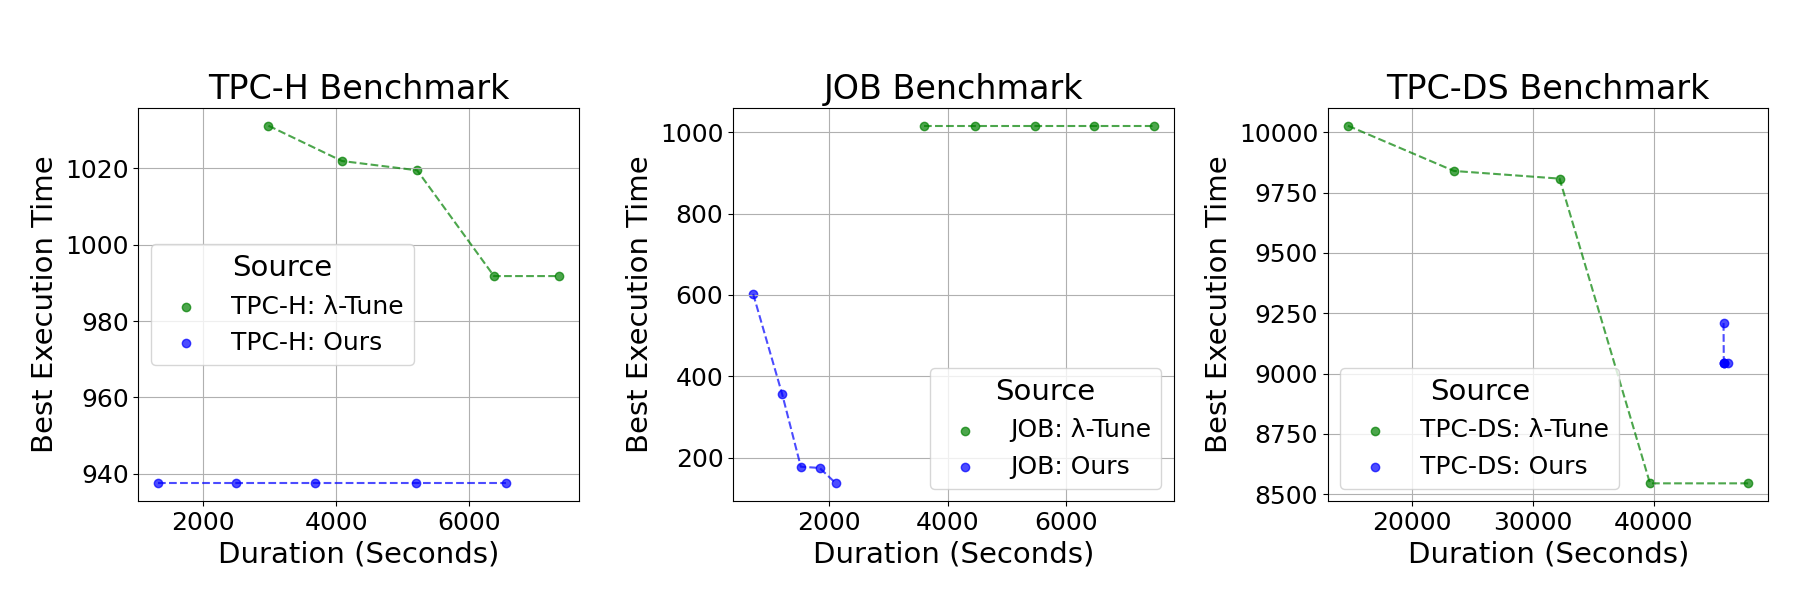
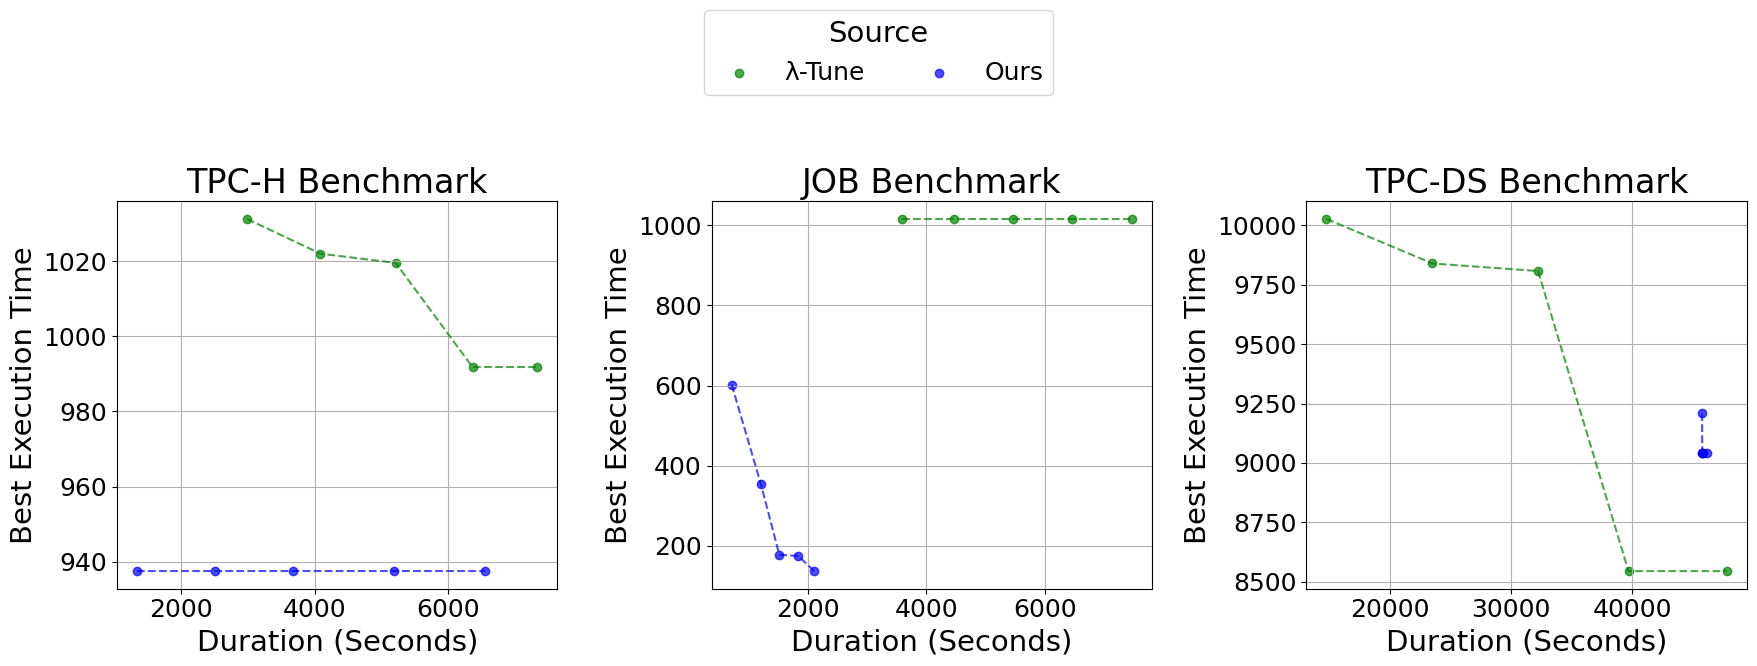
Refactor plotting script to improve legend handling and enhance display names for benchmarks

diff --git a/s5_1.py b/s5_1.py
@@ -6,16 +6,18 @@ import matplotlib.pyplot as plt
 import numpy as np
 
 # Increase plot font sizes globally by 1.5x
-plt.rcParams.update({
-    'font.size': 21,          # General font size (1.5x of 14)
-    'axes.titlesize': 24,     # Axes title font size (1.5x of 16)
-    'axes.labelsize': 21,     # Axes label font size (1.5x of 14)
-    'xtick.labelsize': 18,    # x tick label font size (1.5x of 12)
-    'ytick.labelsize': 18,    # y tick label font size (1.5x of 12)
-    'legend.fontsize': 18     # Legend font size (1.5x of 12)
-})
+plt.rcParams.update(
+    {
+        "font.size": 21,  # General font size (1.5x of 14)
+        "axes.titlesize": 24,  # Axes title font size (1.5x of 16)
+        "axes.labelsize": 21,  # Axes label font size (1.5x of 14)
+        "xtick.labelsize": 18,  # x tick label font size (1.5x of 12)
+        "ytick.labelsize": 18,  # y tick label font size (1.5x of 12)
+        "legend.fontsize": 18,  # Legend font size (1.5x of 12)
+    }
+)
 
-# Set the experiment and benchmarks to plot
+# Set the experiment and benchmarks
 experiment = "s51"
 benchmarks = ["tpch", "job", "tpcds"]
 
@@ -32,7 +34,7 @@ for benchmark in benchmarks:
             with open(fp, "r") as f:
                 reports = json.load(f)
                 for report in reports:
-                    report["file"] = fp      # Tag the source file
+                    report["file"] = fp  # Tag the source file
                     report["benchmark"] = benchmark  # Tag the benchmark
                 data.extend(reports)
         else:
@@ -59,11 +61,12 @@ if missing_columns:
 df["best_execution_time"] = pd.to_numeric(df["best_execution_time"], errors="coerce")
 df["duration_seconds"] = pd.to_numeric(df["duration_seconds"], errors="coerce")
 
-# Define display name mapping and colors for each source file, including benchmark info.
+# Define display name mapping and colors for each source file (without benchmark prefix for legend).
 display_names = {}
+print_names = {}  # New dictionary for printing with benchmark names
 colors = {}
 for benchmark in benchmarks:
-    # Determine friendly benchmark title.
+    # Convert benchmark name to proper title format
     if benchmark.lower() == "tpch":
         bench_title = "TPC-H"
     elif benchmark.lower() == "job":
@@ -75,15 +78,24 @@ for benchmark in benchmarks:
 
     ours_fp = f"test/{experiment}/{benchmark}/ours/reports.json"
     lambdatune_fp = f"test/{experiment}/{benchmark}/lambdatune/reports.json"
-    display_names[ours_fp] = f"{bench_title}: Ours"
-    display_names[lambdatune_fp] = f"{bench_title}: λ-Tune"
+
+    # For legend - only method name
+    display_names[ours_fp] = "Ours"
+    display_names[lambdatune_fp] = "λ-Tune"
+
+    # For printing - method name with benchmark
+    print_names[ours_fp] = f"{bench_title}: Ours"
+    print_names[lambdatune_fp] = f"{bench_title}: λ-Tune"
+
     colors[ours_fp] = "blue"
     colors[lambdatune_fp] = "green"
 
 # --- Plotting ---
 # Create one subplot per benchmark and combine them in one overall figure.
 num_benchmarks = len(benchmarks)
-fig, axes = plt.subplots(nrows=1, ncols=num_benchmarks, figsize=(6*num_benchmarks, 6), sharey=False)
+fig, axes = plt.subplots(
+    nrows=1, ncols=num_benchmarks, figsize=(6 * num_benchmarks, 6), sharey=False
+)
 
 # Ensure axes is always an iterable.
 if num_benchmarks == 1:
@@ -115,13 +127,31 @@ for ax, benchmark in zip(axes, benchmarks):
     ax.set_xlabel("Duration (Seconds)")
     ax.set_ylabel("Best Execution Time")
     ax.grid(True)
-    ax.legend(title="Source")
+
+# Create a single combined legend for the entire figure, positioned upward.
+handles = []
+labels = []
+for ax in axes:
+    h, l = ax.get_legend_handles_labels()
+    for handle, label in zip(h, l):
+        if label not in labels:
+            handles.append(handle)
+            labels.append(label)
+
+fig.legend(
+    handles,
+    labels,
+    loc="upper center",
+    bbox_to_anchor=(0.5, 1.15),
+    ncol=len(labels),
+    title="Source",
+)
 
 print("Scatter Plot: Duration vs Best Execution Time by Source for Each Benchmark")
-plt.tight_layout(rect=[0, 0, 1, 0.93])
+plt.tight_layout(rect=[0, 0, 1, 0.92])
 plot_filename = "s5_1_combined"
-plt.savefig(f"{plot_filename}.png")
-plt.savefig(f"{plot_filename}.pdf")
+plt.savefig(f"{plot_filename}.png", bbox_inches="tight")
+plt.savefig(f"{plot_filename}.pdf", bbox_inches="tight")
 print(f"Scatter plot saved as {plot_filename}")
 plt.show()
 
@@ -137,7 +167,7 @@ grouped_sums = df.groupby("file")[time_columns].sum()
 print("\nFormatted Time Sums per Source with Percentages:\n")
 for source, row in grouped_sums.iterrows():
     total = row.sum()
-    disp_name = display_names.get(source, source)
+    disp_name = print_names.get(source, source)  # Use print_names for printing
     print(disp_name)
     for metric in time_columns:
         value = row[metric]
@@ -150,7 +180,7 @@ print("\nBest Execution Time per Source (aggregated):\n")
 # Aggregate only the minimum for best_execution_time.
 grouped_best = df.groupby("file")["best_execution_time"].agg(["min"])
 for source, stats in grouped_best.iterrows():
-    disp_name = display_names.get(source, source)
+    disp_name = print_names.get(source, source)  # Use print_names for printing
     # If the value is infinite, replace it with NaN so that "inf" isn't printed.
     min_val = stats["min"] if not np.isinf(stats["min"]) else float("nan")
     print(f"{disp_name} -> Min: {min_val:.6f}")
